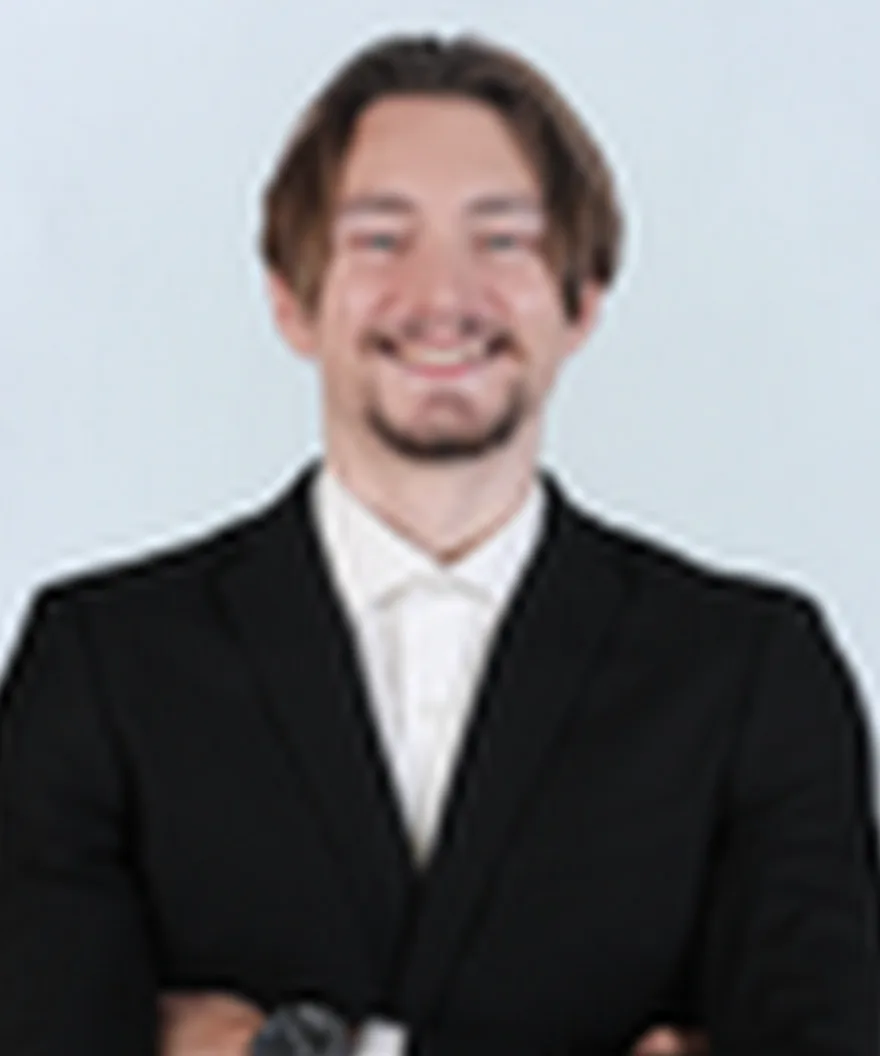
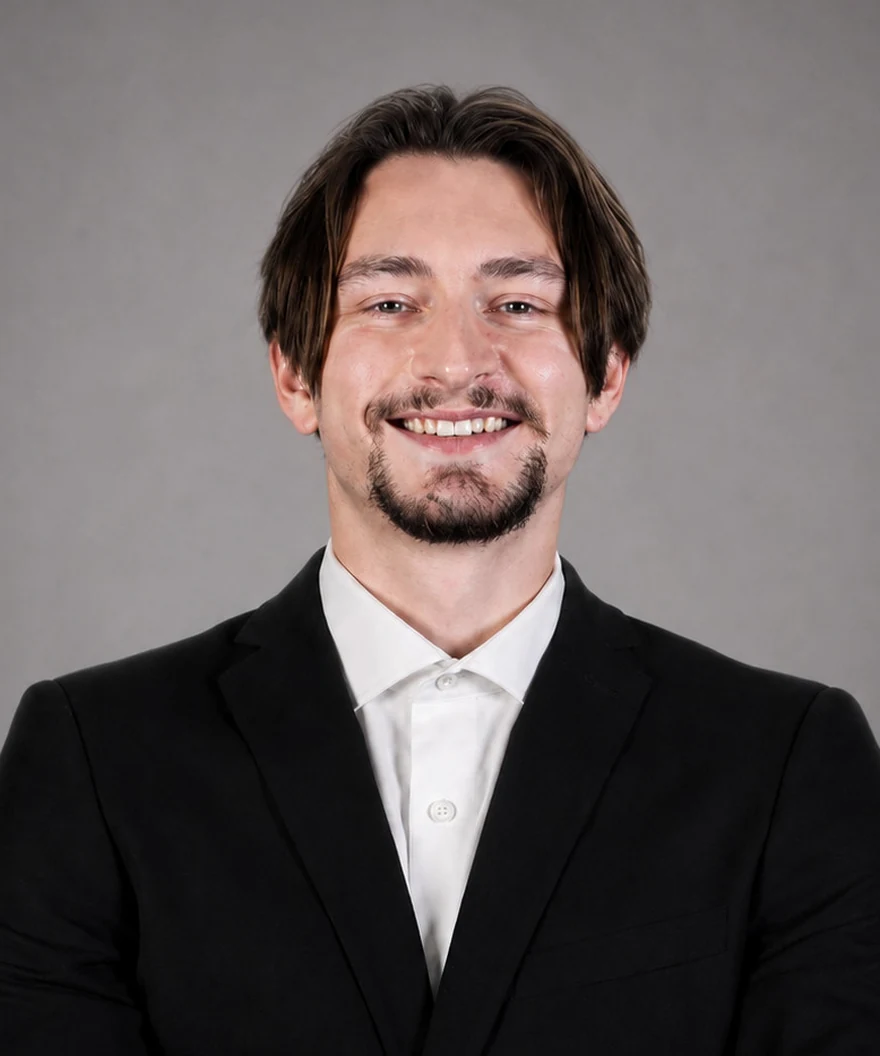
Replace Jordan's portrait and align the four shoulder lines
The old jordan.webp was upscaled from a low-res source: same 880x1056 as
the others but 15.9KB against their 27-35KB, with no detail in hair, eyes
or fabric. Re-cropped from the full-resolution frame instead.

Shoulders sat at 61.6-65.4% of frame height across the three good
portraits and 53.4% on Jordan, whose shot is framed much wider. Since the
sources are exactly 5:6 and the card is aspect-ratio 5/6, object-fit:
cover crops nothing and object-position has no effect -- so framing is a
per-person pan against a shared 1.08 zoom, which lands every shoulder
line on 64%. The zoom still samples 815px of an 880px source, so nothing
is upscaled.

diff --git a/app/globals.css b/app/globals.css
@@ -395,8 +395,9 @@ html.lenis, html.lenis body { height: auto; }
 .team-card { min-width: 0; border-right: 1px solid var(--border-inverse); }
 .team-card:last-child { border-right: 0; }
 .team-portrait { position: relative; aspect-ratio: 5 / 6; overflow: hidden; background: var(--brand-sky); }
-.team-portrait img { object-fit: cover; object-position: center top; filter: saturate(.72) contrast(.98); transition: transform var(--duration-slow) var(--ease-enter), filter var(--duration-base) var(--ease-enter); }
-.team-card:hover .team-portrait img { transform: scale(1.025); filter: saturate(1) contrast(1); }
+.team-portrait { --portrait-zoom: 1.08; }
+.team-portrait img { object-fit: cover; object-position: center top; transform-origin: center top; transform: translateY(var(--portrait-pan, 0)) scale(var(--portrait-zoom)); filter: saturate(.72) contrast(.98); transition: transform var(--duration-slow) var(--ease-enter), filter var(--duration-base) var(--ease-enter); }
+.team-card:hover .team-portrait img { transform: translateY(var(--portrait-pan, 0)) scale(calc(var(--portrait-zoom) * 1.025)); filter: saturate(1) contrast(1); }
 .team-card-copy { display: grid; align-content: start; padding: clamp(1.5rem, 2.5vw, 2.5rem); }
 .team-card-copy > span { font-size: .7rem; letter-spacing: .14em; }
 .team-card-copy h2 { min-height: 2em; margin: 3rem 0 .8rem; font-family: var(--font-editorial); font-size: clamp(2.4rem, 3.4vw, 4rem); font-weight: 400; line-height: .9; }

diff --git a/content/site.ts b/content/site.ts
@@ -240,6 +240,7 @@ export const teamMembers = [
     bio: "Founder and CEO. Jordan sets Elagon’s strategic direction and builds the partnerships and enterprise relationships that turn market opportunities into engagements.",
     accountable: "Strategy · Partnerships · Growth",
     photo: "/team/jordan.webp",
+    pan: "-3.28%",
   },
   {
     number: "02",
@@ -248,6 +249,7 @@ export const teamMembers = [
     bio: "Umar leads market strategy and solution direction from first diagnosis through implementation, connecting business priorities to practical delivery.",
     accountable: "Market Strategy · Solution Shaping · Engagements",
     photo: "/team/umar.webp",
+    pan: "-2.53%",
   },
   {
     number: "03",
@@ -256,6 +258,7 @@ export const teamMembers = [
     bio: "Amine architects secure, scalable AI systems and leads the technical decisions required to move complex work into dependable production.",
     accountable: "Architecture · Security · Production Delivery",
     photo: "/team/amine.webp",
+    pan: "-5.77%",
   },
   {
     number: "04",
@@ -264,6 +267,7 @@ export const teamMembers = [
     bio: "Wenting leads brand, design and digital experience, translating Elagon’s strategy into a coherent and accessible market presence.",
     accountable: "Brand · Design System · Digital Experience",
     photo: "/team/wenting.webp",
+    pan: "-6.63%",
   },
 ] as const;
 

diff --git a/app/company/page.tsx b/app/company/page.tsx
@@ -23,7 +23,7 @@ export default function CompanyPage() {
         <div className="team-grid">
           {teamMembers.map((member) => (
             <article className="team-card" key={member.name} data-reveal>
-              <div className="team-portrait"><Image src={member.photo} alt={`${member.name}, ${member.role}`} fill loading="eager" sizes="(max-width: 767px) 100vw, (max-width: 1023px) 50vw, 25vw" /></div>
+              <div className="team-portrait" style={{ "--portrait-pan": member.pan } as React.CSSProperties}><Image src={member.photo} alt={`${member.name}, ${member.role}`} fill loading="eager" sizes="(max-width: 767px) 100vw, (max-width: 1023px) 50vw, 25vw" /></div>
               <div className="team-card-copy"><span>{member.number}</span><h2>{member.name}</h2><p className="team-role">{member.role}</p><p>{member.bio}</p><small>Accountable for</small><strong>{member.accountable}</strong></div>
             </article>
           ))}
